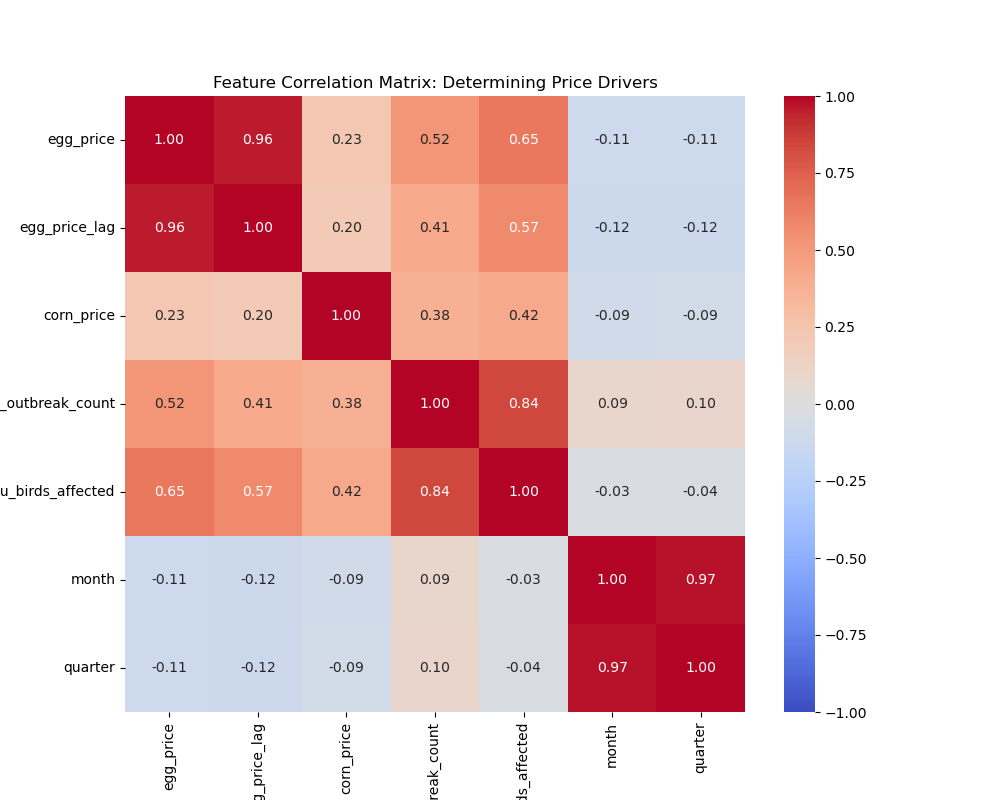
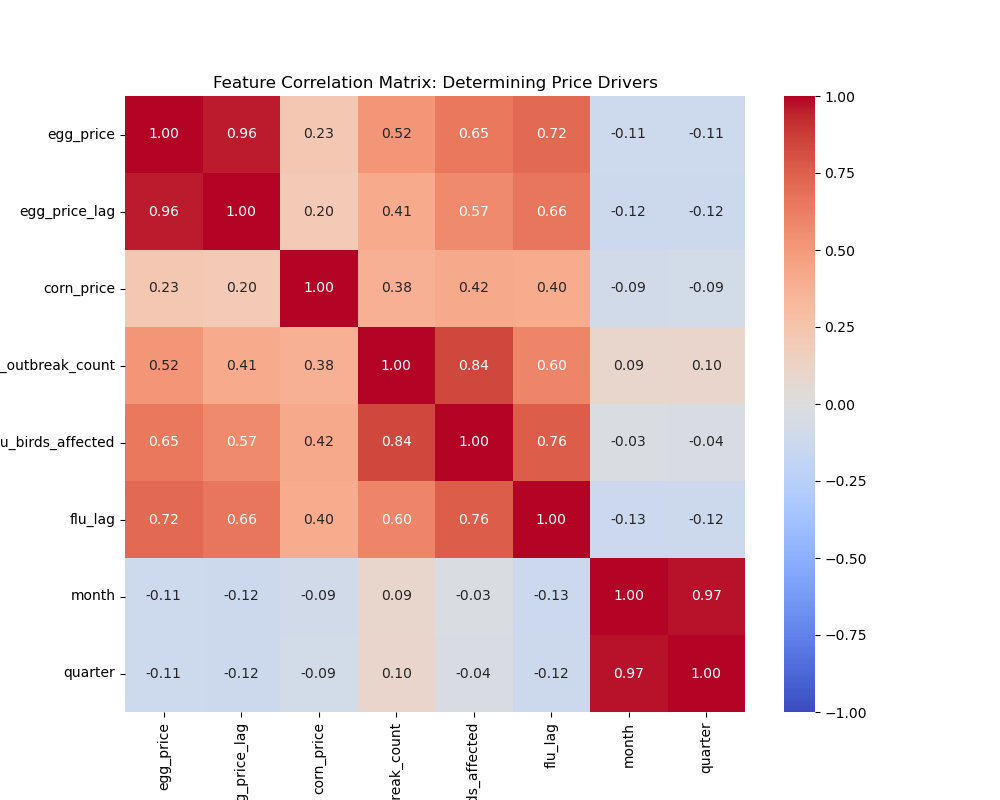
update correlation matrix with flu lag and README correlation findings

diff --git a/README.md b/README.md
@@ -96,8 +96,9 @@ paying for storage they don't need, or selling too early and missing margin oppo
         - **Modeling Implication:** Raw price forecasting risks becoming a "lazy model" that simply copies last month's value. Differencing the target (predicting change in price) will help the model learn real drivers.
     - **Biological Supply Shocks vs. Economic Inputs**
         - Birds affected show a strong correlation (**0.65**) with egg prices.
+        - Introducing a 1-month flu lag strengthens the relationship further (**0.72**).
         - Corn prices show a weaker relationship (**0.23**).
-        - **Modeling Implication:** Flu severity is the dominant predictive signal; feed costs are secondary.
+        - **Modeling Implication:** Flu severity, especially with lag, is the dominant predictive signal; feed costs are secondary.
     - **Seasonality**
         - Month are quarter correlations are week (0.11)
         - **Modeling Implications:** Seasonality adds little predictive value and can be deprioritized or dropped.
